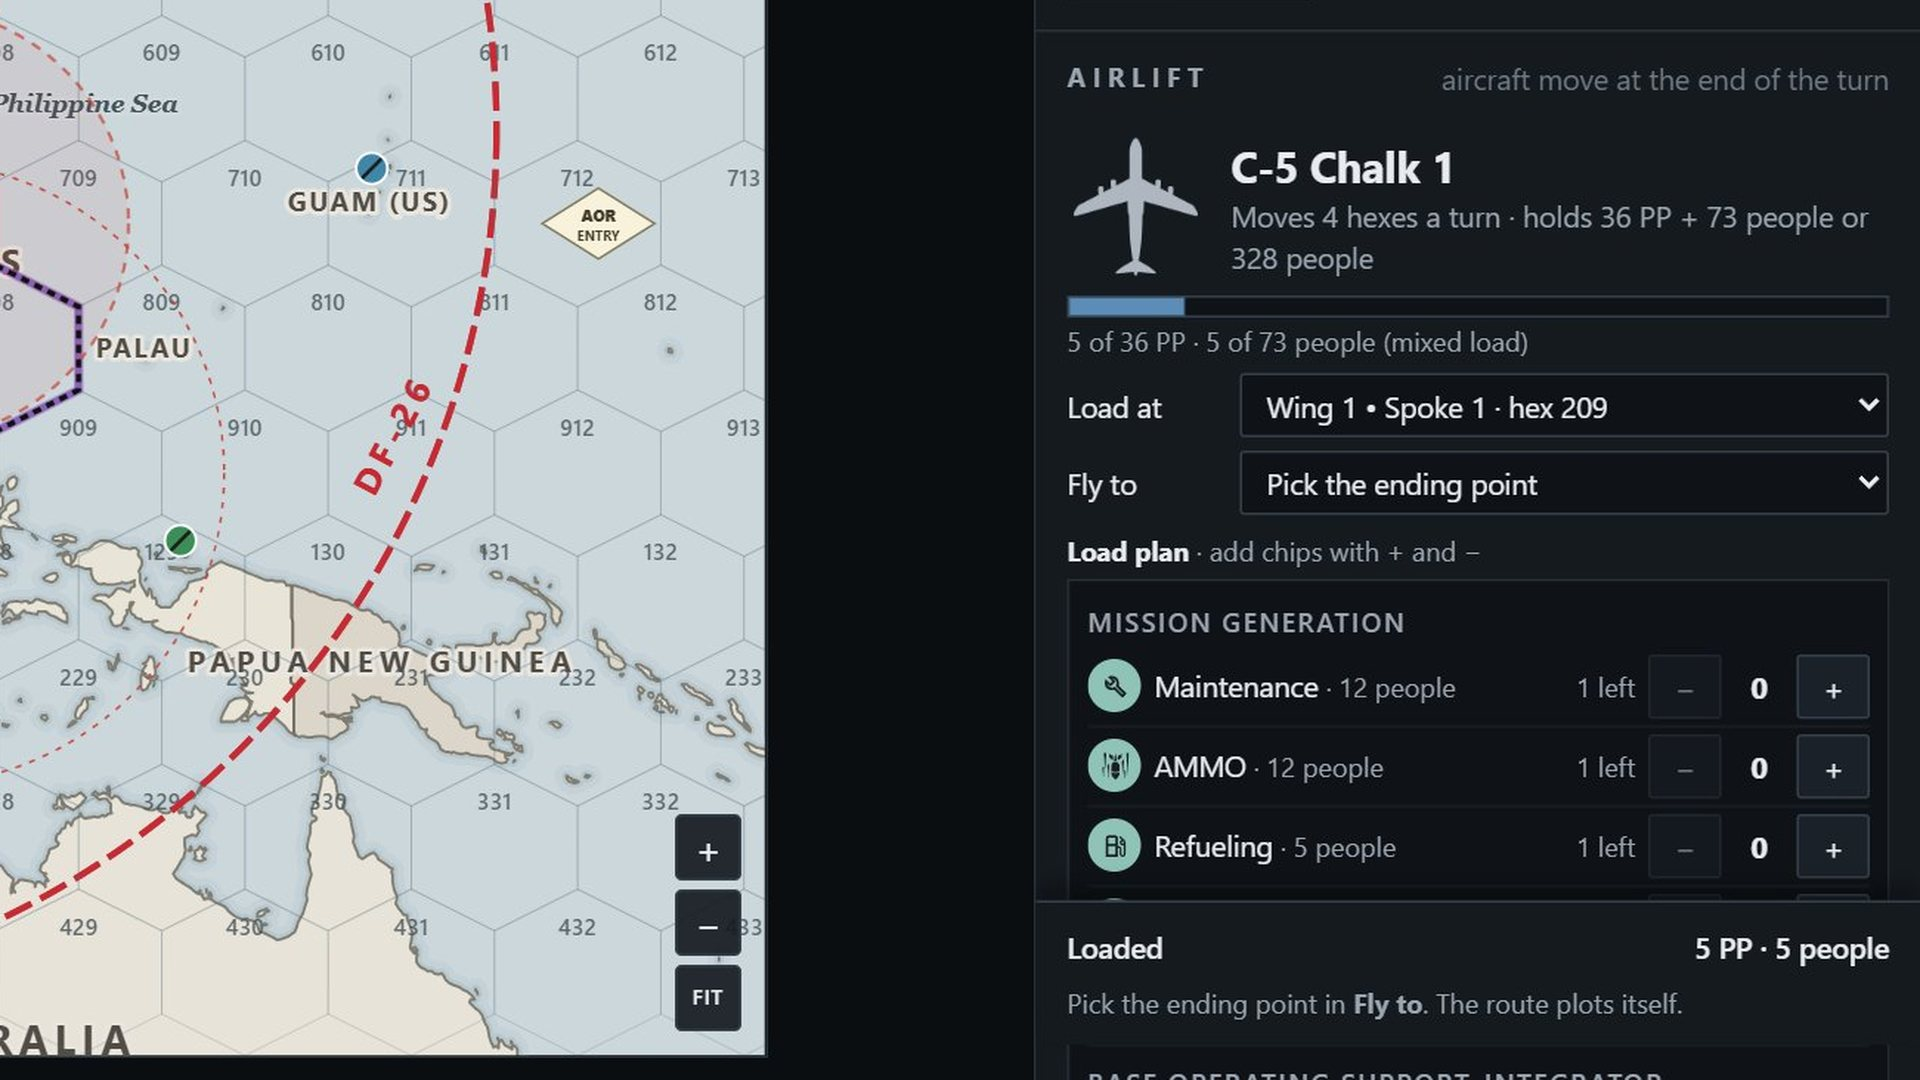
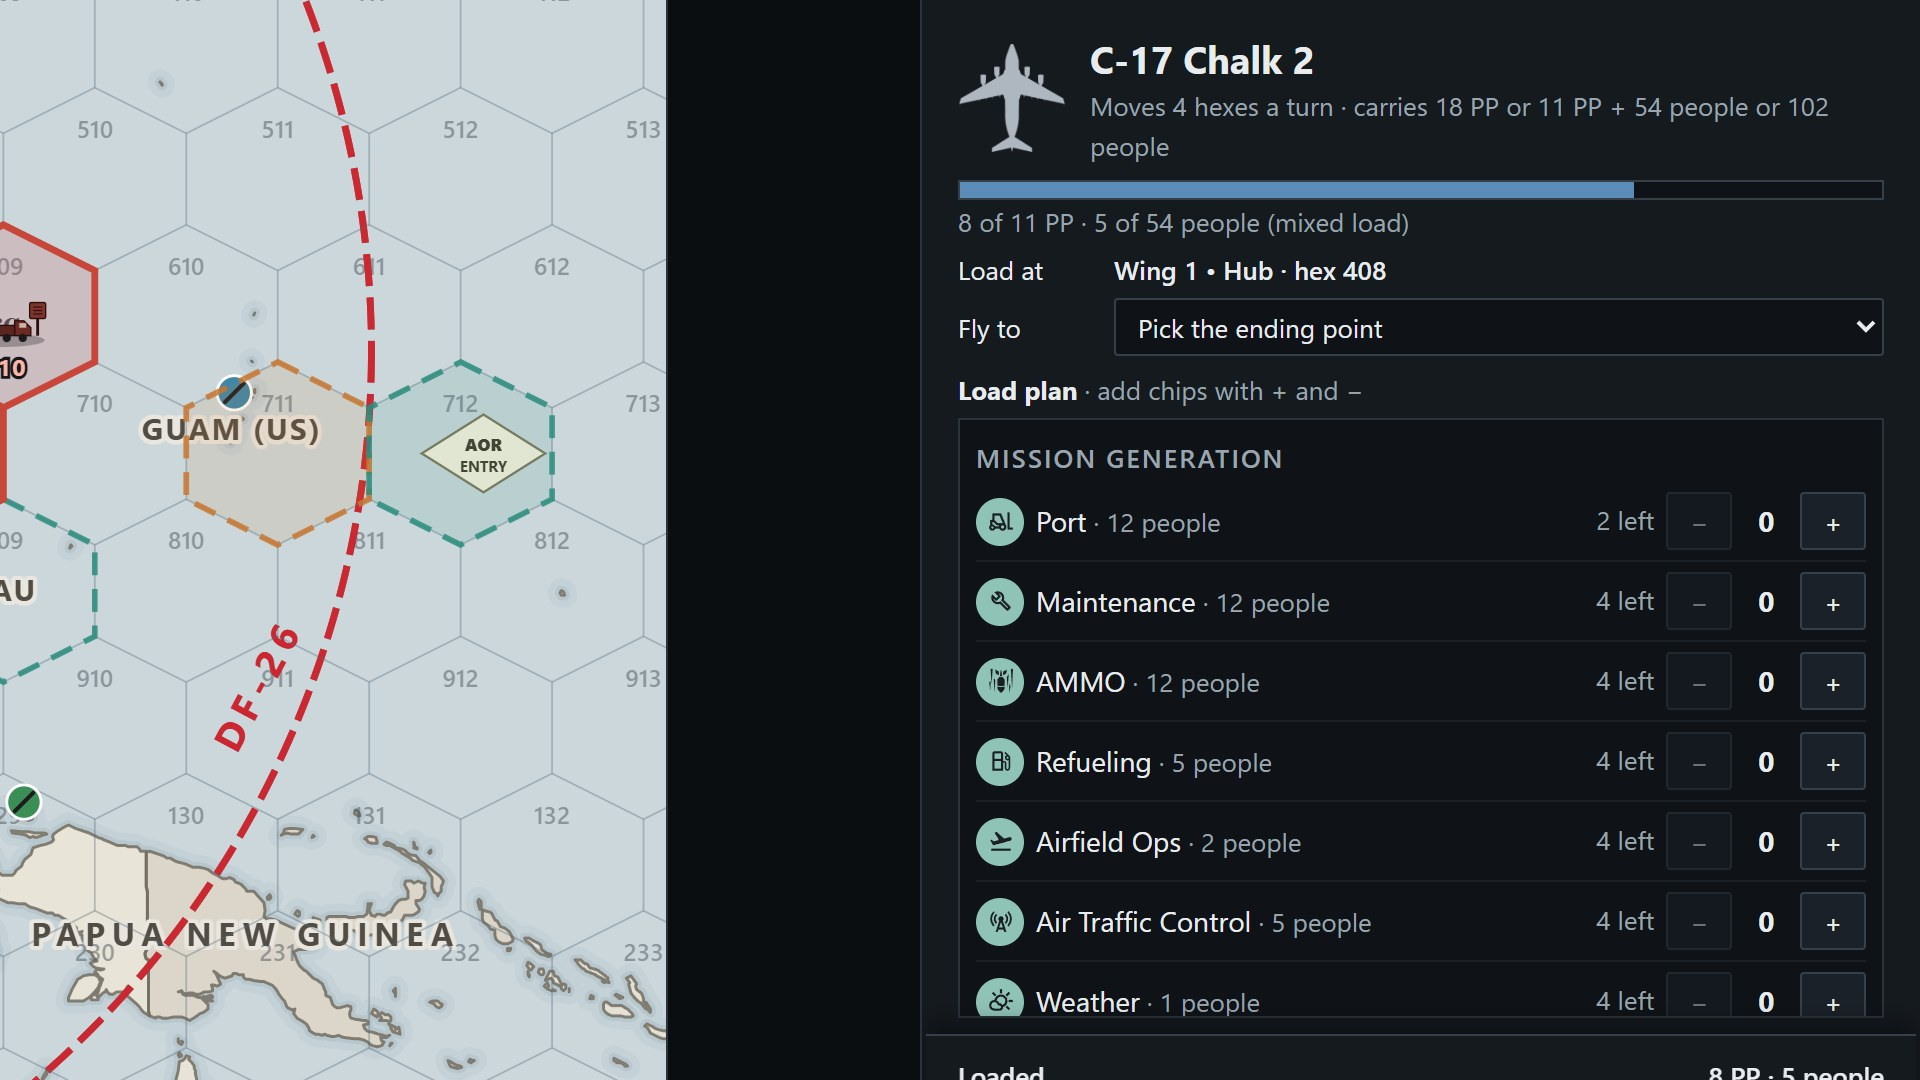
Website: game version 1.17.298, fresh screenshots, wing screen caption

diff --git a/index.html b/index.html
@@ -11,7 +11,7 @@ a{color:inherit}
 .brand{font-weight:700;letter-spacing:6px;font-size:15px}
 .bar nav a{color:var(--mute);text-decoration:none;font-size:14px;margin-left:26px}.bar nav a:hover{color:var(--ink)}
 .hero{position:relative;min-height:580px;padding:96px 0 48px;display:flex;align-items:center;overflow:hidden;border-bottom:1px solid var(--line)}
-.hero .bg{position:absolute;inset:0;background:url(board-v4.jpg?v=1127) right center/cover no-repeat;opacity:.5}
+.hero .bg{position:absolute;inset:0;background:url(board-v4.jpg?v=1115e) right center/cover no-repeat;opacity:.5}
 .hero .shade{position:absolute;inset:0;background:linear-gradient(90deg,var(--bg) 0%,rgba(12,16,20,.94) 38%,rgba(12,16,20,.55) 70%,rgba(12,16,20,.35) 100%),linear-gradient(0deg,var(--bg) 0%,rgba(12,16,20,0) 30%)}
 .hero .wrap{position:relative;z-index:2;width:100%}
 .kicker{color:var(--gold);font-size:13px;letter-spacing:4px;font-weight:600}
@@ -80,17 +80,17 @@ footer{margin-top:0!important}
 <section id="overview">
  <div class="sh"><h2>What it does</h2></div>
  <div class="shots">
-  <figure><img src="shot-projector.jpg?v=1127" alt="Projector board: the Indo-Pacific hex map with every wing's bases, aircraft in flight and the class scoreboard" loading="lazy"><figcaption><b>Projector board</b><span>The whole class sees one map: bases, aircraft in flight, fighter sorties, the shift timer and every wing's score.</span></figcaption></figure>
-  <figure><img src="shot-wing.jpg?v=1127" alt="Wing screen: the wing's own map and its aircraft for the day, chalk by chalk" loading="lazy"><figcaption><b>Wing screen</b><span>Each team sees only its own wing. It picks spokes, rolls RFIs, loads chalks and plots routes.</span></figcaption></figure>
-  <figure><img src="shot-instructor.jpg?v=1127" alt="Instructor screen: the board with the turn, approval and dice controls" loading="lazy"><figcaption><b>Instructor controls</b><span>One screen runs the game: turns can run by themselves (clock, base requests, dice, Red's attacks) or be stepped through by hand. It saves the game after every change.</span></figcaption></figure>
+  <figure><img src="shot-projector.jpg?v=1115e" alt="Projector board: the Indo-Pacific hex map with every wing's bases, aircraft in flight and the class scoreboard" loading="lazy"><figcaption><b>Projector board</b><span>The whole class sees one map: bases, aircraft in flight, fighter sorties, the shift timer and every wing's score.</span></figcaption></figure>
+  <figure><img src="shot-wing.jpg?v=1115e" alt="Wing screen: the wing's own map and its aircraft for the day, chalk by chalk" loading="lazy"><figcaption><b>Wing screen</b><span>Each team works its own wing; the other wings’ bases show as outlines. It picks spokes, rolls RFIs, loads chalks and plots routes.</span></figcaption></figure>
+  <figure><img src="shot-instructor.jpg?v=1115e" alt="Instructor screen: the board with the turn, approval and dice controls" loading="lazy"><figcaption><b>Instructor controls</b><span>One screen runs the game: turns can run by themselves (clock, base requests, dice, Red's attacks) or be stepped through by hand. It saves the game after every change.</span></figcaption></figure>
  </div>
  <div class="shots two">
-  <figure><img src="shot-load.jpg?v=1127" alt="Load planning: a C-17 chalk loaded chip by chip with people, equipment and supplies" loading="lazy"><figcaption><b>Load planning</b><span>Pick an aircraft, then load it chip by chip. The bar shows pallet positions and people against what the aircraft can carry.</span></figcaption></figure>
-  <figure><img src="shot-route.jpg?v=1127" alt="Route planning: the chalk's route plotted hex by hex with a pass or fail check for each rule" loading="lazy"><figcaption><b>Route planning</b><span>Pick the destination and the route plots itself around closed airspace. Every rule is checked before launch: range, base access, field color, load and space on the ramp.</span></figcaption></figure>
+  <figure><img src="shot-load.jpg?v=1115e" alt="Load planning: a C-17 chalk loaded chip by chip with people, equipment and supplies" loading="lazy"><figcaption><b>Load planning</b><span>Pick an aircraft, then load it chip by chip. The bar shows pallet positions and people against what the aircraft can carry.</span></figcaption></figure>
+  <figure><img src="shot-route.jpg?v=1115e" alt="Route planning: the chalk's route plotted hex by hex with a pass or fail check for each rule" loading="lazy"><figcaption><b>Route planning</b><span>Pick the destination and the route plots itself around closed airspace. Every rule is checked before launch: range, base access, field color, load and space on the ramp.</span></figcaption></figure>
  </div>
  <div class="shots two">
-  <figure><img src="shot-resources.jpg?v=1127" alt="Wing Resources tab: what a spoke needs for IOC, what the host nation provides, what was airlifted and what is still short" loading="lazy"><figcaption><b>Resources</b><span>For each spoke: what IOC needs, what the host nation provides, what has been airlifted in and what is still short.</span></figcaption></figure>
-  <figure><img src="shot-tasks.jpg?v=1127" alt="Wing Airfield tasks tab: the sixteen airfield tasks grouped as establish, defend, operate and maintain, with people assigned" loading="lazy"><figcaption><b>Airfield tasks</b><span>Sixteen tasks in four groups: establish, defend, operate and maintain. Wings assign people and equipment until the spoke reaches IOC.</span></figcaption></figure>
+  <figure><img src="shot-resources.jpg?v=1115e" alt="Wing Resources tab: what a spoke needs for IOC, what the host nation provides, what was airlifted and what is still short" loading="lazy"><figcaption><b>Resources</b><span>For each spoke: what IOC needs, what the host nation provides, what has been airlifted in and what is still short.</span></figcaption></figure>
+  <figure><img src="shot-tasks.jpg?v=1115e" alt="Wing Airfield tasks tab: the sixteen airfield tasks grouped as establish, defend, operate and maintain, with people assigned" loading="lazy"><figcaption><b>Airfield tasks</b><span>Sixteen tasks in four groups: establish, defend, operate and maintain. Wings assign people and equipment until the spoke reaches IOC.</span></figcaption></figure>
  </div>
  <div class="shots two">
   <figure><img src="shot-fight.jpg?v=1163" alt="Conflict: a four-ship of F-22s squares off with a Red S-400 site; each fighter and the site roll dice before both fire" loading="lazy"><figcaption><b>Air defense fight</b><span>In conflict, fighters engage Red's S-400 sites one at a time. Each jet and the site roll (D18 against the site's die) and both fire. Win, and the site is destroyed.</span></figcaption></figure>
@@ -133,7 +133,7 @@ footer{margin-top:0!important}
 </main>
 
 <div class="band"><div class="wrap"><img src="moic.png?v=3" alt="MOIC"><p>Kingfish ACE is built for the 21A Maintenance Officer Intermediate Course. It follows the Kingfish ACE tabletop rulebook.</p></div></div>
-<footer><div class="wrap"><span>Kingfish ACE · 21A Maintenance Officer Intermediate Course</span><span class="credit">Created by Lt Col Troy Pierce · Coder and project manager: Capt Justin Kuroski</span><span>Game version <b id="gv" style="font-weight:600;color:var(--mute)">1.17.257</b></span></div></footer>
+<footer><div class="wrap"><span>Kingfish ACE · 21A Maintenance Officer Intermediate Course</span><span class="credit">Created by Lt Col Troy Pierce · Coder and project manager: Capt Justin Kuroski</span><span>Game version <b id="gv" style="font-weight:600;color:var(--mute)">1.17.298</b></span></div></footer>
 
 <div id="lb" onclick="this.classList.remove('on')"><span class="x">Close ✕</span><img alt=""></div>
 <div id="gate"><form onsubmit="tryGate();return false;">
